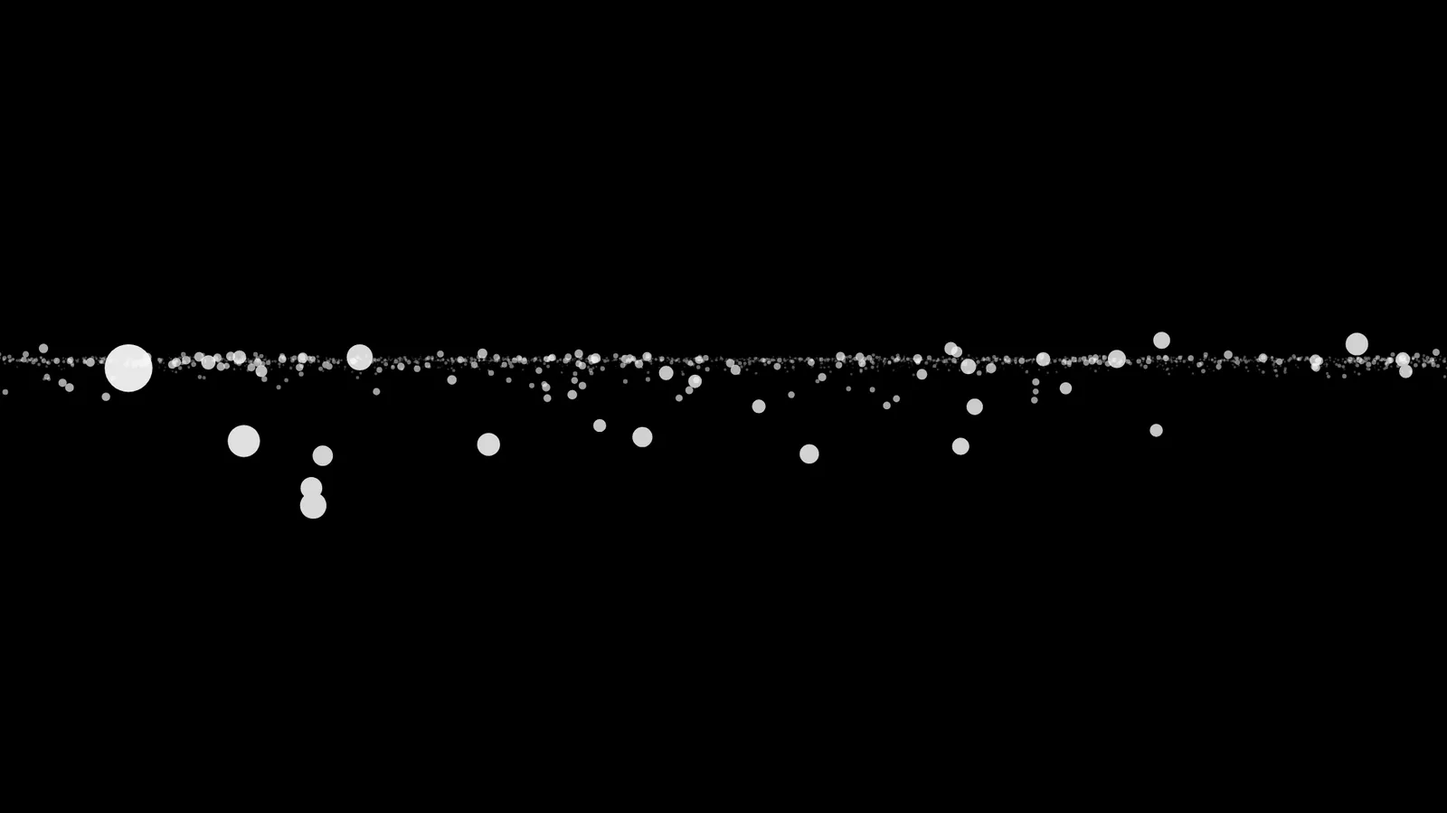
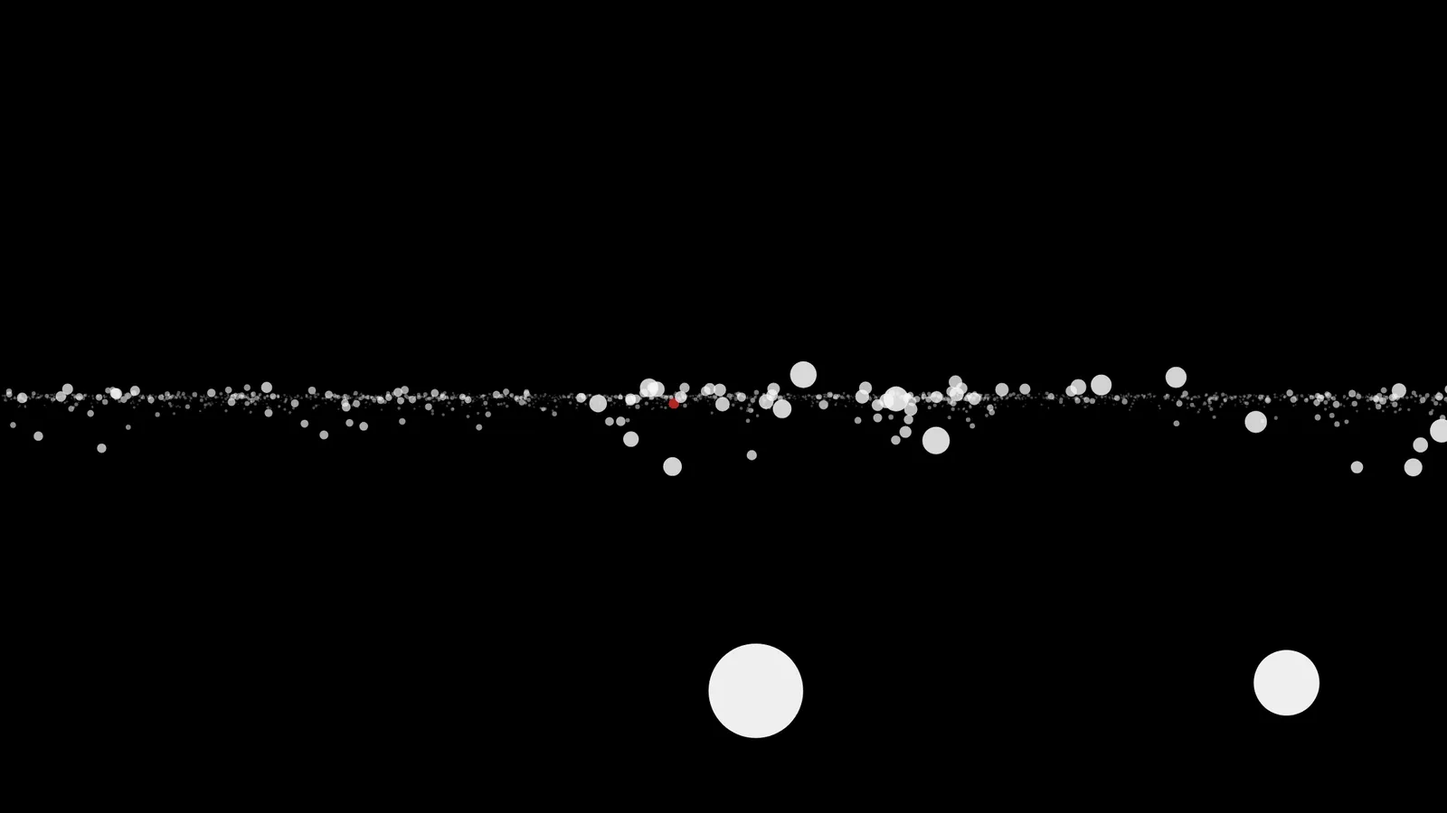
feat(crowd): catch me is the primary
Moved to first, which moves the landing scene, the poster, the note's
backdrop and the chrome's hue with it; the poster is recaptured. The crowd
unit tests that were written against the market now name it rather than
reading PRESETS[0].

diff --git a/public/showcase/runners/crowd.9810eb51f4a2.js b/public/showcase/runners/crowd.9810eb51f4a2.js
@@ -1,0 +1,1 @@
+var mn="ABCDEFGHIJKLMNOPQRSTUVWXYZabcdefghijklmnopqrstuvwxyz0123456789-_";function dn(n){switch(n.kind){case"num":return n.bits;case"bool":return 1;case"enum":return Math.max(1,Math.ceil(Math.log2(Math.max(2,n.options.length))));case"set":return n.options.length}}function gn(n,e){switch(n.kind){case"bool":return e===1;case"enum":return n.options[Math.min(e,n.options.length-1)];case"set":return n.options.filter((t,i)=>e&1<<i);case"num":return Number((n.origin+e*n.grid).toPrecision(12))}}function it(n,e){if(e==="")return null;let t=[];for(let d of e){let p=mn.indexOf(d);if(p<0)return null;for(let r=5;r>=0;r--)t.push(p>>r&1)}let i=0,o=[];for(;;){if(i+7>=t.length+1&&o.length===0)return null;let d=t[i];if(d===void 0)return null;i+=1;for(let p=0;p<7;p++)o.push(t[i+p]===1);if(i+=7,d===0)break;if(i>=t.length)return null}let c={};for(let[d,p]of n.entries()){if(!o[d])continue;let r=dn(p);if(i+r>t.length)return null;let f=0;for(let x=0;x<r;x++)f=f<<1|t[i+x];i+=r,c[p.key]=gn(p,f)}return c}function vt(n,e,t){let i=t!==void 0?Math.min(t,n.step):n.step;if(n.scale!=="log")return i;let o=Math.max(Math.abs(e),Number.MIN_VALUE);return Math.max(i,10**(Math.floor(Math.log10(o))-2))}function Pt(n,e,t){if(!Number.isFinite(e))return e;let i=vt(n,e,t);return i>0?Number((Math.round(e/i)*i).toPrecision(10)):e}var pn={min:0,max:99999},fn={density:40,stream:.45,against:.5,grouping:.6,children:.18,standing:.12,paceLow:.9,paceHigh:1.8,spacing:1,walk:1.3,pausing:.15,height:1.78,pitch:-4,companions:1,looking:.8,bob:1,fov:62,fade:40,reach:65,width:250,lining:0,watchers:0,bend:0,meander:300,team:0,climb:0,hills:400,effort:0,keep:0,line:0,hold:0,chase:0,flee:1,loop:0,corners:0,stalls:0,aisle:3,hue:210,tint:0,playback:1,seed:7351};var At={density:{min:.5,max:100,step:.5,scale:"log"},stream:{min:0,max:1,step:.01},against:{min:0,max:1,step:.01},grouping:{min:0,max:1,step:.05},children:{min:0,max:.5,step:.02},standing:{min:0,max:.6,step:.02},paceLow:{min:.4,max:3,step:.05},paceHigh:{min:.4,max:3,step:.05},spacing:{min:.3,max:2.5,step:.05},walk:{min:0,max:5,step:.05},pausing:{min:0,max:1,step:.05},height:{min:1,max:2.05,step:.01},pitch:{min:-25,max:15,step:.5},companions:{min:0,max:15,step:1},looking:{min:0,max:1.5,step:.05},bob:{min:0,max:3,step:.05},fov:{min:35,max:120,step:1},fade:{min:2,max:80,step:.1,scale:"log"},reach:{min:8,max:250,step:.5,scale:"log"},width:{min:3,max:250,step:.5,scale:"log"},lining:{min:0,max:12,step:.5},watchers:{min:0,max:300,step:5},bend:{min:0,max:60,step:.5},meander:{min:40,max:600,step:5},team:{min:0,max:16,step:1},climb:{min:0,max:40,step:.5},hills:{min:40,max:800,step:5},effort:{min:0,max:1,step:.05},keep:{min:-1,max:1,step:.05},line:{min:-1,max:1,step:.05},hold:{min:0,max:1,step:.05},chase:{min:0,max:1,step:.05},flee:{min:.5,max:1.6,step:.05},loop:{min:0,max:3e3,step:10},corners:{min:0,max:1,step:.05},stalls:{min:0,max:.8,step:.05},aisle:{min:1.6,max:8,step:.1},hue:{min:0,max:359,step:1},tint:{min:0,max:1,step:.02},playback:{min:0,max:2,step:.05},seed:{min:0,max:99999,step:1}},rt={...Object.fromEntries(Object.entries(At).map(([n,e])=>[n,{min:e.min,max:e.max}])),seed:pn};function bn(n,e){let t=At[n];return t?Pt(t,e):e}var yn=(n,e,t)=>Math.min(t,Math.max(e,n));function Et(n,e=fn){let t={...e,...n};for(let[i,o]of Object.entries(rt)){let c=Number(t[i]);t[i]=Number.isFinite(c)?yn(c,o.min,o.max):e[i],t[i]=bn(i,t[i])}return t.seed=Math.round(t.seed),t.paceLow>t.paceHigh&&(t.paceHigh=t.paceLow),t}var It=[{key:"density",kind:"num",grid:.5,origin:.5,bits:8},{key:"stream",kind:"num",grid:.01,origin:0,bits:7},{key:"against",kind:"num",grid:.01,origin:0,bits:7},{key:"grouping",kind:"num",grid:.05,origin:0,bits:5},{key:"children",kind:"num",grid:.02,origin:0,bits:5},{key:"standing",kind:"num",grid:.02,origin:0,bits:5},{key:"paceLow",kind:"num",grid:.05,origin:.4,bits:6},{key:"paceHigh",kind:"num",grid:.05,origin:.4,bits:6},{key:"spacing",kind:"num",grid:.05,origin:.3,bits:6},{key:"walk",kind:"num",grid:.05,origin:0,bits:6,retired:!0},{key:"pausing",kind:"num",grid:.05,origin:0,bits:5},{key:"height",kind:"num",grid:.01,origin:1,bits:7},{key:"pitch",kind:"num",grid:.5,origin:-25,bits:7},{key:"looking",kind:"num",grid:.05,origin:0,bits:5},{key:"bob",kind:"num",grid:.05,origin:0,bits:6},{key:"fov",kind:"num",grid:1,origin:35,bits:7},{key:"fade",kind:"num",grid:.1,origin:2,bits:10},{key:"hue",kind:"num",grid:1,origin:0,bits:9},{key:"tint",kind:"num",grid:.02,origin:0,bits:6},{key:"playback",kind:"num",grid:.05,origin:0,bits:6},{key:"seed",kind:"num",grid:1,origin:0,bits:17},{key:"reach",kind:"num",grid:.5,origin:8,bits:9},{key:"width",kind:"num",grid:.5,origin:3,bits:9},{key:"companions",kind:"num",grid:1,origin:0,bits:2,retired:!0},{key:"lining",kind:"num",grid:.5,origin:0,bits:5},{key:"watchers",kind:"num",grid:5,origin:0,bits:6},{key:"bend",kind:"num",grid:.5,origin:0,bits:7},{key:"meander",kind:"num",grid:5,origin:40,bits:7},{key:"team",kind:"num",grid:1,origin:0,bits:5},{key:"climb",kind:"num",grid:.5,origin:0,bits:7},{key:"hills",kind:"num",grid:5,origin:40,bits:8},{key:"effort",kind:"num",grid:.05,origin:0,bits:5},{key:"companions",kind:"num",grid:1,origin:0,bits:4},{key:"keep",kind:"num",grid:.05,origin:-1,bits:6},{key:"walk",kind:"num",grid:.05,origin:0,bits:7},{key:"line",kind:"num",grid:.05,origin:-1,bits:6},{key:"hold",kind:"num",grid:.05,origin:0,bits:5},{key:"chase",kind:"num",grid:.05,origin:0,bits:5},{key:"flee",kind:"num",grid:.05,origin:.5,bits:5},{key:"loop",kind:"num",grid:10,origin:0,bits:9},{key:"corners",kind:"num",grid:.05,origin:0,bits:5},{key:"stalls",kind:"num",grid:.05,origin:0,bits:5},{key:"aisle",kind:"num",grid:.1,origin:1.6,bits:7}];var wn=["seed","companions","chase"];function Rt(n,e){return wn.some(t=>n[t]!==e[t])}var xn=["density","reach","width","fov","lining","watchers","bend","meander","team","climb","hills","loop","corners","stalls","aisle"];function Lt(n,e){return xn.some(t=>n[t]!==e[t])}function Tt(n,e,t,i,o,c,d,p,r){let f=Math.max(1,Math.min(p,r)),x=Math.max(20,Math.min(140,c))*Math.PI/180;return{x:n,y:e,z:t,yaw:i,pitch:o,focal:f/2/Math.tan(x/2),width:p,height:r,fade:d}}function Nt(n,e,t,i){let o=e-n.x,c=t-n.y,d=Math.cos(n.yaw),p=Math.sin(n.yaw),r=o*d+c*p,f=o*p-c*d,x=i-n.z,S=Math.cos(n.pitch),I=Math.sin(n.pitch),_=r*S+x*I;if(_<=.32)return null;let v=x*S-r*I,E=n.focal/_;return{depth:_,sx:n.width/2+f*E,sy:n.height/2-v*E,scale:E,alpha:Math.exp(-_/Math.max(.5,n.fade))}}function st(n){let e=n|0;return e=Math.imul(e^e>>>16,73244475),e=Math.imul(e^e>>>16,73244475),(e^e>>>16)>>>0}function Re(n,...e){let t=st(n);for(let i of e)t=st(t^st(i));return t>>>0}function Le(n){let e=n|0;return()=>{e=e+1831565813|0;let t=Math.imul(e^e>>>15,1|e);return t=t+Math.imul(t^t>>>7,61|t)^t,((t^t>>>14)>>>0)/4294967296}}function Ct(n){let e=Math.max(n(),Number.EPSILON),t=n(),i=Math.sqrt(-2*Math.log(e))*Math.cos(2*Math.PI*t);return Math.max(-2.5,Math.min(2.5,i))}var kn={mean:1.75,sd:.07},Mn={mean:1.62,sd:.065};function Ot(n){let e=n()<.5?kn:Mn;return e.mean+Ct(n)*e.sd}var Be={min:2,max:12},Ft=n=>.75+.062*n,_t=n=>.152*(.8+.2*(n/1.75)),Sn=n=>.225*(.78+.22*(n/1.75)),qt=n=>n-Sn(n)/2,vn=.935,ht=n=>vn*n,Oe=n=>.23*(.6+.4*(n/1.75)),Pn=n=>.53*n,Gt=(n,e)=>1.34*Math.sqrt(n/1.75)*e;function An(n,e,t){let i=Math.max(.15,e/Math.max(.05,t));return .83*n*Math.pow(i,.6)}function De(n,e,t){return e<=.02?0:2*e/An(n,e,t)}var We=.023,_e=.02,ze=n=>Math.sqrt(.5*9.81*Pn(n)),je=(n,e)=>2.8*Math.sqrt(1.75/n)*(1+.05*(e-3)),Ye=.04,Ve=.008,Ht=.38;function Xe(n){let e=n-Math.floor(n),t=1-Ht;if(e<t){let i=(e-t/2)/(t/2);return 1-1.6*i*i}return-.6-.4*Math.sin(Math.PI*(e-t)/Ht)}var En=.45,ut=160,lt=Math.PI*2,$t=Math.log(1/.005),In=n=>Math.max(0,Math.min(ut-1,Math.round(Math.log(n/.005)/$t*(ut-1)))),ct=n=>.005*Math.exp(n/(ut-1)*$t),Rn="hsl(2, 88%, 56%)",Kt=()=>({pool:[],order:[]});function Ut(n){let e=Math.round(n.tint*72),t=Math.round(97-n.tint*12);return`hsl(${Math.round(n.hue)} ${e}% ${t}%)`}function Bt(n,e){let{people:t,camera:i,settings:o,width:c,height:d}=e,{pool:p,order:r}=e.scratch;n.globalAlpha=1,n.fillStyle="#000",n.fillRect(0,0,c,d);let f=o.bob,x=0;for(let v=0;v<t.length;v++){let E=t[v],P=Math.hypot(E.vx,E.vy),Q=Math.min(1,P/.35),W=E.running?Xe(E.phase/lt)*Ye:Math.sin(E.phase)*We,ee=e.ground(E.x)+E.head+W*f*Q,T=Math.sin(E.phase/2)*(E.running?Ve:_e)*f*Q,z=P>1e-4?-E.vy/P:0,N=P>1e-4?E.vx/P:0,$=Nt(i,E.x+z*T,E.y+N*T,ee);if(!$||$.alpha<.005)continue;let X=Math.max(En,$.scale*E.headR);if($.sx<-X-2||$.sx>c+X+2||$.sy<-X-2||$.sy>d+X+2)continue;let K=p[x];K||(K={sx:0,sy:0,r:0,depth:0,alpha:0,red:!1},p[x]=K),K.red=E.quarry,K.sx=$.sx,K.sy=$.sy,K.r=X,K.depth=$.depth,K.alpha=$.alpha,r[x]=K,x++}r.length=x,r.sort((v,E)=>E.depth-v.depth),n.fillStyle=Ut(o);let S=-1,I=0,_=0;n.beginPath();for(let v of r){let E=In(v.alpha);if(E!==S&&(S>=0&&(n.globalAlpha=ct(S),n.fill(),I++,n.beginPath()),S=E),v.red){S>=0&&(n.globalAlpha=ct(S),n.fill(),I++),n.beginPath(),n.fillStyle=Rn,n.globalAlpha=v.alpha,n.moveTo(v.sx+v.r,v.sy),n.arc(v.sx,v.sy,v.r,0,lt),n.fill(),I++,n.fillStyle=Ut(o),n.beginPath(),S=-1,v.r>_&&(_=v.r);continue}n.moveTo(v.sx+v.r,v.sy),n.arc(v.sx,v.sy,v.r,0,lt),v.r>_&&(_=v.r)}return S>=0&&(n.globalAlpha=ct(S),n.fill(),I++),n.globalAlpha=1,{drawn:x,fills:I,largest:_}}function Ln(n,e){let t=e.x-n.x,i=e.y-n.y,o=n.radius+e.radius,c=t*t+i*i-o*o;if(c<=0)return 0;let d=n.vx-e.vx,p=n.vy-e.vy,r=t*d+i*p;if(r<=0)return 1/0;let f=d*d+p*p;if(f<=1e-9)return 1/0;let x=r*r-f*c;return x<=0?1/0:(r-Math.sqrt(x))/f}function qe(n,e,t,i){let o=Ln(n,e);if(o===1/0||o>4)return;let c=n.vx-e.vx,d=n.vy-e.vy,p=e.x-n.x-c*o,r=e.y-n.y-d*o,f=Math.sqrt(p*p+r*r);if(f<1e-6&&(p=e.x-n.x,r=e.y-n.y,f=Math.sqrt(p*p+r*r),f<1e-6))return;let x=Math.max(.12,o),S=t*Math.exp(-x/3)/(x*x);i.x-=p/f*S,i.y-=r/f*S}function Dt(n,e){let t=e*Math.sqrt(n()),i=n()*Math.PI*2;return{x:t*Math.cos(i),y:t*Math.sin(i)}}function Wt(n,e,t,i){if(!Number.isFinite(i))return Dt(n,e);let o=Math.max(-e,-i-t),c=Math.min(e,i-t);if(c<=o)return{x:0,y:(o+c)/2};if(o<=-e&&c>=e)return Dt(n,e);for(let d=0;d<24;d++){let p=o+n()*(c-o),r=Math.sqrt(Math.max(0,e*e-p*p));if(!(n()*e>r))return{x:(n()*2-1)*r,y:p}}return{x:0,y:o+n()*(c-o)}}function mt(n,e,t){return Math.hypot(e,t)<1e-4?n()*Math.PI*2:Math.atan2(-t,-e)+Math.asin(2*n()-1)}function Ze(n,e,t,i){if(n()>=t)return n()*Math.PI*2;let o=(n()-.5)*.35;return(n()<i?e+Math.PI:e)+o}function zt(n,e,t,i,o,c,d){let p=Math.sqrt(1+o.steepest*o.steepest),r=()=>{let x=c>0&&n()<.5?-1:1;return c>0?x*(c+n()*(d-c)):(n()*2-1)*d};for(let x=0;x<40;x++){let S=t+(n()*2-1)*e,I=o.slope(S),_=Math.sqrt(1+I*I);if(!o.straight&&n()*p>_)continue;let v=o.centre(S)+r()*_,E=v-i;if((S-t)*(S-t)+E*E<=e*e)return{x:S,y:v}}let f=o.slope(t);return{x:t,y:o.centre(t)+r()*Math.sqrt(1+f*f)}}function jt(n,e,t,i,o,c,d,p){let r=Math.atan(c.slope(i)),f=Math.cos(e-r)>=0?1:-1,x=d>0?(n()<.5?-1:1)*(d+n()*(p-d)):(n()*2-1)*p,S=v=>{let E=i+f*v,P=c.slope(E);return{x:E,y:c.centre(E)+x*Math.sqrt(1+P*P)}},I=0,_=t*2;for(let v=0;v<24;v++){let E=(I+_)/2,P=S(E);(P.x-i)*(P.x-i)+(P.y-o)*(P.y-o)>t*t?_=E:I=E}return S(I)}var Xt=.4142,Je=.3;function dt(n,e,t,i,o=0,c=300,d=0,p=0){let r=Zt(o,c,d,p);if(n<=0)return Yt({...r,straight:!0,centre:()=>0,slope:()=>0,lateral:(P,Q)=>Q,steepest:0,minRadius:1/0});let f=Math.PI*2/e,x=f/Xt,S=n*(1-Je),I=n*Je,_=S*Math.sin(t)+I*Math.sin(i),v=P=>S*Math.sin(f*P+t)+I*Math.sin(x*P+i)-_,E=P=>S*f*Math.cos(f*P+t)+I*x*Math.cos(x*P+i);return Yt({...r,straight:!1,centre:v,slope:E,lateral:(P,Q)=>{let W=E(P);return(Q-v(P))/Math.sqrt(1+W*W)},steepest:S*f+I*x,minRadius:1/(S*f*f+I*x*x)})}function Yt(n){let e={...n,closed:!1,frame:(t,i,o)=>{if(n.straight)return o.lateral=i,o.cos=1,o.sin=0,o;let c=n.slope(t),d=1/Math.sqrt(1+c*c);return o.lateral=(i-n.centre(t))*d,o.cos=d,o.sin=c*d,o},along:t=>Math.atan(n.slope(t)),sample:(t,i,o,c,d,p)=>zt(t,i,o,c,e,d,p),entry:(t,i,o,c,d,p,r)=>jt(t,i,o,c,d,e,p,r),lengthWithin:()=>null};return e}var Tn=.5,Vt={min:256,max:4096};function Qt(n,e,t,i,o,c,d,p=0,r=300,f=0,x=0){let S=Zt(p,r,f,x),I=.34*e,_=.2*e,v=8192,E=[],P=[];for(let y=0;y<=v;y++){let R=y/v*Math.PI*2,H=1+I*Math.cos(2*R+t)+_*Math.cos(3*R+i);E.push(H*Math.cos(R)),P.push(H*Math.sin(R))}let Q=[0];for(let y=1;y<=v;y++)Q.push(Q[y-1]+Math.hypot(E[y]-E[y-1],P[y]-P[y-1]));let W=Q[v],ee=n/W,T=Math.max(Vt.min,Math.min(Vt.max,Math.round(n/Tn))),z=new Float64Array(T),N=new Float64Array(T),$=0;for(let y=0;y<T;y++){let R=y/T*W;for(;$<v-1&&Q[$+1]<R;)$++;let H=Q[$+1]-Q[$],l=H>0?(R-Q[$])/H:0;z[y]=(E[$]+(E[$+1]-E[$])*l)*ee,N[y]=(P[$]+(P[$+1]-P[$])*l)*ee}let X=new Float64Array(T),K=new Float64Array(T);for(let y=0;y<T;y++){let R=(y+1)%T,H=(y-1+T)%T,l=z[R]-z[H],g=N[R]-N[H],G=Math.hypot(l,g)||1;X[y]=l/G,K[y]=g/G}let F=d-Math.atan2(K[0],X[0]),ie=Math.cos(F),te=Math.sin(F),me=z[0],fe=N[0];for(let y=0;y<T;y++){let R=z[y]-me,H=N[y]-fe;z[y]=o+R*ie-H*te,N[y]=c+R*te+H*ie;let l=X[y],g=K[y];X[y]=l*ie-g*te,K[y]=l*te+g*ie}let V=n/T,B=1/0;for(let y=0;y<T;y++){let R=(y+1)%T,H=Math.abs(Math.atan2(X[y]*K[R]-K[y]*X[R],X[y]*X[R]+K[y]*K[R]));H>1e-9&&(B=Math.min(B,V/H))}let q=(y,R,H)=>{let l=z[y]-R,g=N[y]-H;return l*l+g*g};function se(y,R,H){let l=H&&H.pathAt>=0&&H.pathAt<T?H.pathAt:-1;if(l<0){let g=1/0;for(let G=0;G<T;G++){let Z=q(G,y,R);Z<g&&(g=Z,l=G)}}else{let g=q(l,y,R);for(let G=0;G<T;G++){let Z=(l+1)%T,D=(l-1+T)%T,O=q(Z,y,R),J=q(D,y,R);if(O<g&&O<=J)l=Z,g=O;else if(J<g)l=D,g=J;else break}}return H&&(H.pathAt=l),l}function Me(y,R,H,l){let g=se(y,R,l),Z=X[g]*(y-z[g])+K[g]*(R-N[g])>=0?(g+1)%T:(g-1+T)%T,D=z[Z]-z[g],O=N[Z]-N[g],J=D*D+O*O||1,re=Math.max(0,Math.min(1,((y-z[g])*D+(R-N[g])*O)/J)),ne=z[g]+D*re,ye=N[g]+O*re,we=X[g]+(X[Z]-X[g])*re,oe=K[g]+(K[Z]-K[g])*re,ae=Math.hypot(we,oe)||1;return we/=ae,oe/=ae,H.lateral=we*(R-ye)-oe*(y-ne),H.cos=we,H.sin=oe,H}let Ee={lateral:0,cos:1,sin:0},Ne=(y,R,H)=>R>0?(y()<.5?-1:1)*(R+y()*(H-R)):(y()*2-1)*H,Ae=(y,R)=>({x:z[y]-K[y]*R,y:N[y]+X[y]*R}),he="",Se=[];function ve(y,R,H){let l=`${y.toFixed(2)},${R.toFixed(2)},${H.toFixed(2)}`;if(l===he)return Se;he=l,Se=[];for(let g=0;g<T;g++)q(g,y,R)<=H*H&&Se.push(g);return Se}return{...S,straight:!1,closed:!0,minRadius:B,frame:Me,lateral:(y,R)=>Me(y,R,Ee).lateral,along:(y,R)=>(Me(y,R,Ee),Math.atan2(Ee.sin,Ee.cos)),sample(y,R,H,l,g,G){let Z=ve(H,l,R);for(let D=0;D<40&&Z.length>0;D++){let O=Ae(Z[Math.floor(y()*Z.length)],Ne(y,g,G));if((O.x-H)*(O.x-H)+(O.y-l)*(O.y-l)<=R*R)return O}return Ae(se(H,l),Ne(y,g,G))},entry(y,R,H,l,g,G,Z){let D=Math.max(1,H-Z),O=D*D,J=-1,re=1/0;for(let ne=0;ne<T;ne++){let ye=(ne+1)%T,we=q(ne,l,g)-O,oe=q(ye,l,g)-O;if(we>0==oe>0)continue;let ae=Math.atan2(N[ne]-g,z[ne]-l)-R;ae=Math.abs(Math.atan2(Math.sin(ae),Math.cos(ae))),ae<re&&(re=ae,J=ne)}return J<0?this.sample(y,H,l,g,G,Z):Ae(J,Ne(y,G,Z))},lengthWithin:(y,R,H)=>ve(y,R,H).length*V}}function Zt(n,e,t,i){if(n<=0)return{flat:!0,ground:()=>0,groundSlope:()=>0,steepestClimb:0};let o=Math.PI*2/e,c=o/Xt,d=n*(1-Je),p=n*Je,r=d*Math.sin(t)+p*Math.sin(i);return{flat:!1,ground:f=>d*Math.sin(o*f+t)+p*Math.sin(c*f+i)-r,groundSlope:f=>d*o*Math.cos(o*f+t)+p*c*Math.cos(c*f+i),steepestClimb:d*o+p*c}}var gt=1.4;function et(n,e,t,i){return i===0||!Number.isFinite(e)?0:(Math.sign(i)*t*e*.5-n)*gt*Math.abs(i)}function tt(n,e){if(e<=0)return 1;let t=Math.exp(-3.5*Math.abs(n+.05))/Math.exp(-3.5*.05);return 1+e*(t-1)}var nt=3.5,Nn=8,Te=1.15,Cn=.3,Hn=1,On=[.15,.5],pt=[.5,1.8],Fn=[.85,3.1],_n=[.5,2.2],qn=[.9,2.2],Gn=[.35,1.6],Un=.5,$n=.09,Kn=.3,Bn=1.1,Dn=.38,Wn=2,zn=4.5,jn=2.6,Jt=.61,en=.58,tn=.55,Yn=[3.2,8],Vn=.65,Xn=[.7,1.6],Qn=[.6,1.3],Zn=14,Jn=.5,eo=.5,to=1.8,no=240,oo=[18,45],ao=[1.5,3.4],io=[5,19],ro=[14,40],so=[1,4],ho=.9,nn=2.2,ft=7,lo=.09;function bt(n,e){let t=n,i=Le(Re(e,77)),o=0,c=0,d=0,p=0,r=0,f=0,x=0,S=0,I=0,_=0,v={kind:"ahead"},E=0,P=0,Q=0,W=0,ee=0,T=0,z=!0,N=0,$=!0;function X(l){if(N-=l,N<=0){z=!z,$=i()<t.chase;let g=1-.45*fe;N=he(z?Xn:Qn,i())*g,$||(N=.8+i()*1.2)}return $}let K=0,F=!0,ie=0,te=0,me=!1,fe=0,V=0,B=t.height,q={x:0,y:0},se=[],Me=0,Ee={lateral:0,cos:1,sin:0},Ne={pathAt:-1};function Ae(l){let g=t.pausing;if(g<=0)return l?1/0:0;if(g>=1)return l?0:1/0;let G=9*(l?1-g:g);return Math.max(.4,-Math.log(Math.max(1e-6,i()))*G)}let he=([l,g],G)=>l+G*(g-l),Se=()=>t.pitch*Math.PI/180;function ve(l){if(l.kind==="ahead")return{yaw:0,up:0,worth:!0};let g=ht(B),G=l.kind==="person"?l.person.x:l.x,Z=l.kind==="person"?l.person.y:l.y,D=l.kind==="person"?l.person.head:l.z,O=G-o,J=Z-c,re=Math.sqrt(O*O+J*J),ne=Math.atan2(J,O)-f;for(;ne>Math.PI;)ne-=Math.PI*2;for(;ne<-Math.PI;)ne+=Math.PI*2;let ye=Math.atan2(D-g,Math.max(.4,re))-Se();return{yaw:Math.max(-l.wide,Math.min(l.wide,ne)),up:Math.max(-en,Math.min(tn,ye)),worth:Math.abs(ne)<=l.wide&&re>.35}}function y(l,g){l.kind==="spot"&&(l.x+=l.vx*g,l.y+=l.vy*g,l.z+=l.vz*g)}function R(l,g){if(g<=0)return{look:{kind:"ahead"},hold:0};let G=Math.cos(f),Z=Math.sin(f),D=i(),O=fe,J=1-.55*O,re=l.companions,ne=l.quarry;if(ne&&t.chase>0&&(l.caught||i()<.75*t.chase))return{look:{kind:"person",person:ne,wide:Te},hold:he(pt,i())*(1-.2*O)};let ye=re.length>0?Un:0;if(re.length>0&&D<ye)return{look:{kind:"person",person:re[Math.floor(i()*re.length)],wide:Te},hold:he(pt,i())*J};let we=$n*(1-.9*O);if(D<ye+we){let pe=he(ro,i()),a=f+(i()-.5)*1.4,h=i()*Math.PI*2,w=he(so,i());return{look:{kind:"spot",x:o+Math.cos(a)*pe,y:c+Math.sin(a)*pe,z:he(io,i()),vx:Math.cos(h)*w,vy:Math.sin(h)*w,vz:(i()-.55)*1.6,wide:Te},hold:he(ao,i())*J}}if(D<ye+we+Kn){let pe=he(Yn,i()),a=pe+(he(oo,i())-pe)*O,h=Math.min(Te,Math.max(Vn,g))*(1-.6*O),w=f+(i()-.5)*2*h;return{look:{kind:"spot",x:o+Math.cos(w)*a,y:c+Math.sin(w)*a,z:i()<.55*(1-O)?0:i()*1.3+O*.6,vx:0,vy:0,vz:0,wide:Te},hold:he(qn,i())*J}}let oe=null,ae=1/0,Pe=l.neighbours(o,c,14);for(let pe=0;pe<20&&Pe.length>0;pe++){let a=Pe[Math.floor(i()*Pe.length)];if(!a)continue;let h=a.x-o,w=a.y-c,u=Math.sqrt(h*h+w*w);if(u<.6+5*O||u>14)continue;let b=(h*G+w*Z)/u;if(b<-.2)continue;let A=u*(1.6-b);A<ae&&(ae=A,oe=a)}let Ce=he(F?On:pt,i())*J;return oe?{look:{kind:"person",person:oe,wide:g},hold:Ce}:{look:{kind:"ahead"},hold:Ce}}function H(l,g){V+=l,ie-=l,ie<=0&&(F=!F,ie=Ae(F),ie<=0&&(F=!F,ie=Ae(F))),r+=(i()-.5)*lo*Math.sqrt(l)*2;let G=g.path.frame(o,c,Ee,Ne),Z=Math.max(0,Math.min(1,1-g.halfWidth/25));if(Z>0){let k=r-(g.path.straight?0:Math.atan2(G.sin,G.cos));for(;k>Math.PI/2;)k-=Math.PI;for(;k<-Math.PI/2;)k+=Math.PI;r-=k*Z*1.4*l}let D=g.path.flat?0:g.path.groundSlope(o)*Math.cos(r),O=g.quarry;if(O&&t.chase>0){Me+=l,Me>=eo&&(Me=0,se.push(O.x,O.y),se.length>no*2&&se.splice(0,2));let k={x:Math.cos(r),y:Math.sin(r)};for(;se.length>=2;){let ge=se[0]-o,xe=se[1]-c,Y=Math.sqrt(ge*ge+xe*xe);if(Y<to||Y<6&&ge*k.x+xe*k.y<0)se.splice(0,2);else break}let C=se.length>=2?se[0]:O.x,j=se.length>=2?se[1]:O.y,U=Math.atan2(j-c,C-o)-r;for(;U>Math.PI;)U-=Math.PI*2;for(;U<-Math.PI;)U+=Math.PI*2;r+=U*t.chase*2.5*l}else if(se.length=0,g.stalls.active){let k=Math.PI/2,C=r-Math.round(r/k)*k;r-=C*1.4*l}let J=F&&!g.caught?t.walk*tt(D,t.effort):0,re=Math.cos(r)*J,ne=Math.sin(r)*J;q.x=(re-d)*nn,q.y=(ne-p)*nn;let ye={x:o,y:c,vx:d,vy:p,radius:Oe(B)},we=1.9*t.spacing*t.spacing;for(let k of g.neighbours(o,c,3.6))qe(ye,k,we,q);if(g.stalls.push(o,c,q),g.path.straight){let k=Math.abs(c)-g.halfWidth+.8;k>0&&(q.y-=Math.sign(c)*k*7)}else{let k=G.lateral,C=Math.abs(k)-g.halfWidth+.8;C>0&&(q.x+=G.sin*Math.sign(k)*C*7,q.y-=G.cos*Math.sign(k)*C*7)}if((t.keep!==0||t.hold>0)&&F&&Number.isFinite(g.halfWidth)){let k=G.lateral,C=t.hold>0?(t.line*g.halfWidth-k)*gt*t.hold:et(k,g.halfWidth,Math.cos(r-Math.atan2(G.sin,G.cos)),t.keep);q.x+=-G.sin*C,q.y+=G.cos*C}let oe=Math.sqrt(q.x*q.x+q.y*q.y);oe>ft&&(q.x=q.x/oe*ft,q.y=q.y/oe*ft),d+=q.x*l,p+=q.y*l;let ae=Math.sqrt(d*d+p*p),Pe=J>0?J*1.35:t.walk/ho*l*2;ae>Pe&&ae>1e-6&&(d=d/ae*Pe,p=p/ae*Pe),o+=d*l,c+=p*l;let Ce=ze(B);!me&&ae>Ce*1.04?me=!0:me&&ae<Ce*.9&&(me=!1),fe+=((me?1:0)-fe)*Math.min(1,l*3);let pe=me?je(B,ae):De(B,ae,Math.max(.4,t.walk));te+=pe*l*Math.PI*2;let a=ae<.25,h=(a?Hn:Cn)*Math.min(1.3,Math.max(0,t.looking));if(O&&t.chase>0&&(g.caught||X(l))){let k=g.caught||z?{kind:"person",person:O,wide:Te}:{kind:"ahead"},C=k.kind==="ahead"?{yaw:0,up:0,worth:!0}:ve(k);v=k,E=C.worth?C.yaw:0,P=C.worth?C.up:0,T=0}else if(T>0){T-=l,y(v,l);let k=ve(v);E=k.yaw,P=k.up,k.worth||(T=0),T<=0&&(a&&i()<Dn&&(K=f+I),v={kind:"ahead"},E=0,P=0)}else if(ee-=l,ee<=0){let k=R(g,Math.min(h,Te));v=k.look;let C=ve(v);E=C.yaw,P=C.up,T=k.hold;let j=g.companions.length>0?Gn:a?_n:Fn;ee=T+he(j,i())*(1+.8*fe);let U=g.quarry;if(U&&t.chase>0&&v.kind!=="person"){let ge=Math.atan2(U.y-c,U.x-o)-S;Math.abs(Math.atan2(Math.sin(ge),Math.cos(ge)))>Jn&&(ee=T+he(j,i())*.3)}}let w=O&&t.chase>0?Zn:Nn,u=-2*w*_-w*w*(I-E);_=Math.max(-nt,Math.min(nt,_+u*l)),I+=_*l;let b=-2*w*W-w*w*(Q-P);W=Math.max(-nt,Math.min(nt,W+b*l)),Q=Math.max(-en,Math.min(tn,Q+W*l)),Math.abs(I)>Te&&(I=Math.sign(I)*Te);let A=ae>.12;if(A){let k=Math.atan2(p,d),C=k-r;for(;C>Math.PI;)C-=Math.PI*2;for(;C<-Math.PI;)C+=Math.PI*2;K=Math.abs(C)<=Jt?r:k-Math.sign(C)*Jt}let m=K-f;for(;m>Math.PI;)m-=Math.PI*2;for(;m<-Math.PI;)m+=Math.PI*2;let M=A?zn:jn;x+=(M*M*m-2*M*x)*l;let L=A?Wn:Bn;x=Math.max(-L,Math.min(L,x));let s=x*l;f+=s,A||(r+=s),S=f+I}return{get x(){return o},get y(){return c},get vx(){return d},get vy(){return p},get yaw(){return S},get pitch(){return Se()+Q},get course(){return f},get axis(){return 0},get speed(){return Math.hypot(d,p)},get walking(){return F},get clock(){return V},get radius(){return Oe(B)},eye(){let l=t.bob,g=Math.min(1,Math.hypot(d,p)/.35),G=Math.sin(te)*We,Z=Xe(te/(Math.PI*2))*Ye,D=G+(Z-G)*fe,O=_e+(Ve-_e)*fe;return{z:ht(B)+D*l*g,sway:Math.sin(te/2)*O*l*g}},step:H,resettle(l){t=l,B=t.height},stats(){return{x:o,y:c,yaw:S,course:f,speed:Math.hypot(d,p),walking:F,running:me,stature:B,clock:V}}}}var co={active:!1,period:0,aisle:0,push:()=>{},blocked:()=>!1,junction:()=>-1,runs:()=>3};function Ge(n,e,t,i){let o=n*374761393+e*668265263+t*2147483647+i*144269504|0;return o=Math.imul(o^o>>>13,1274126177),o=o^o>>>16,(o>>>0)/4294967296}function yt(n,e,t){if(n<=0)return co;let i=Math.sqrt(Math.min(.9,n)),o=e*i/(1-i),c=e+o;function d(f,x){if(Ge(f,x,0,t)<.08)return null;let S=e/2+Ge(f,x,1,t)*.22*o,I=e/2+o-Ge(f,x,2,t)*.22*o,_=e/2+Ge(f,x,3,t)*.22*o,v=e/2+o-Ge(f,x,4,t)*.22*o;return[S,I,_,v]}let p={d:1/0,nx:0,ny:0};function r(f,x){let S=Math.floor(f/c),I=Math.floor(x/c),_=f-S*c,v=x-I*c,E=d(S,I);if(!E)return p.d=1/0,p;let[P,Q,W,ee]=E,T=Math.max(P-_,0,_-Q),z=Math.max(W-v,0,v-ee);if(T>0||z>0){let ie=Math.sqrt(T*T+z*z);return p.d=ie,p.nx=(_<P?-T:T)/ie,p.ny=(v<W?-z:z)/ie,p}let N=_-P,$=Q-_,X=v-W,K=ee-v,F=Math.min(N,$,X,K);return p.d=-F,p.nx=F===N?-1:F===$?1:0,p.ny=F===X?-1:F===K?1:0,p}return{active:!0,period:c,aisle:e,push(f,x,S){let I=r(f,x);if(I.d>=.8)return;let _=(.8-I.d)*7;S.x+=I.nx*_,S.y+=I.ny*_},blocked(f,x,S){return r(f,x).d<S},runs(f,x){let S=Math.abs(x-Math.round(x/c)*c)<=e/2,I=Math.abs(f-Math.round(f/c)*c)<=e/2;return(S?1:0)+(I?2:0)},junction(f,x){let S=Math.round(f/c),I=Math.round(x/c);return Math.abs(f-S*c)>e/2||Math.abs(x-I*c)>e/2?-1:(S+4096)*16384+(I+4096)}}}var Fe=9e3,mo=24;function wt(n){return Math.max(mo,4*(n.paceHigh+Math.max(n.walk,n.paceHigh))+2)}var on=[[.62,.7],[-.62,.7],[.45,1.95]];function go(n){let e=n+1,t=Math.min(4,Math.ceil(Math.sqrt(e))),i=Math.ceil(e/t),o={row:i-1,col:Math.floor((e-(i-1)*t-1)/2)},c=[];for(let d=0;d<e;d++){let p=Math.floor(d/t),r=d%t;if(p===o.row&&r===o.col)continue;let f=p===i-1?e-(i-1)*t:t,x=(r-(f-1)/2)*.8-(o.col-(e-(i-1)*t-1)/2)*.8;c.push([x,(o.row-p)*1.05])}return c}var po=1.1,fo=.6,bo=5,xt=[2.5,5],an=3.4,ke=4,ot=.8,rn=3.6,sn=8,hn=2.2,kt=7;function Mt(n,e){let t=[],i=[],o=n,c=wt(n),d=1,p=!1,r=1e6,f=0,x=0,S=1/0,I=0,_=0,v=0,E=1/0,P=dt(0,1,0,0),Q="",W=yt(0,1,0),ee=0,T=!1,z=0,N=Le(Re(o.seed,2)),$=Le(Re(o.seed,3)),X=a=>Le(Re(o.seed,a,11)),K=0,F={x:0,y:0},ie=new Map,te=(a,h)=>(a+4096)*16384+(h+4096);function me(a,h=r){return h>=a?Math.PI*a*a:2*(a*a*Math.asin(h/a)+h*Math.sqrt(a*a-h*h))}let fe=a=>ee>0?me(a,r+ee)-me(a):0,V=a=>o.density/100*B(a)+o.watchers/100*q(a);function B(a){let h=Number.isFinite(r)?P.lengthWithin(e.x,e.y,a):null;return h===null?me(a):h*2*r}function q(a){let h=ee>0?P.lengthWithin(e.x,e.y,a):null;return h===null?fe(a):h*2*ee}function se(){let a=1,h=4e3;if(V(h)<=Fe)return h;for(let w=0;w<30;w++){let u=(a+h)/2;V(u)>Fe?h=u:a=u}return a}function Me(){for(let u of t)u.companion=!1,u.besideRight=0,u.besideAhead=0;for(let u of t)u.quarry=!1;let a=t.filter(u=>!u.watcher).length,h=Math.min(Math.round(o.companions),a),w=h<=on.length?on:go(h);for(let u=0;u<h;u++){let b=t[u];b.companion=!0,b.besideRight=w[u][0],b.besideAhead=w[u][1],b.standing=!1,b.group=-1;let A=Math.cos(e.axis),m=Math.sin(e.axis);b.x=e.x+A*b.besideAhead-m*b.besideRight,b.y=e.y+m*b.besideAhead+A*b.besideRight,b.vx=e.vx,b.vy=e.vy}if(o.chase>0&&a>h){D=!0,O=0,J=!0,re=9+N()*12;let u=t[h];u.quarry=!0,u.standing=!1,u.group=-1;let b=Math.cos(e.axis),A=Math.sin(e.axis);u.x=e.x+b*7,u.y=e.y+A*7,u.gx=b,u.gy=A,u.vx=b*u.preferred,u.vy=A*u.preferred}}function Ee(){r=o.width>=rt.width.max?1/0:o.width/2,ee=Number.isFinite(r)?o.lining:0;let a=[o.bend,o.meander,o.climb,o.hills,o.loop,o.corners,o.seed].join();if(a!==Q){Q=a;let m=Le(Re(o.seed,5)),M=[m(),m(),m(),m()].map(L=>L*Math.PI*2);P=o.loop>0?Qt(o.loop,o.corners,M[0],M[1],e.x,e.y,e.course,o.climb,o.hills,M[2],M[3]):dt(o.bend,o.meander,M[0],M[1],o.climb,o.hills,M[2],M[3]);for(let L of t)L.pathAt=-1}T=Number.isFinite(r)&&(ee>0||!P.straight),W=yt(o.stalls,o.aisle,o.seed);let h=Math.max(6,o.reach),w=se();if(p=w<h,d=Math.min(h,w),T){Ne(),ve();return}if(t.some(m=>m.watcher)){let m=t.filter(M=>!M.watcher);t.length=0,t.push(...m)}let u=Math.min(Fe,Math.round(o.density/100*me(d)));for(;t.length>u;)t.pop();let b=new Map;for(let m of t){let M=te(Math.floor(m.x/ke),Math.floor(m.y/ke)),L=b.get(M);L?L.push(m):b.set(M,[m])}let A=(m,M,L)=>{let s=Math.floor(m/ke),k=Math.floor(M/ke);for(let C=-1;C<=1;C++)for(let j=-1;j<=1;j++){let U=b.get(te(s+C,k+j));if(U)for(let ge of U){let xe=ge.x-m,Y=ge.y-M,le=L+ge.radius;if(xe*xe+Y*Y<le*le)return!1}}return!0};for(;t.length<u;){let m=0,M=0,L=!1;for(let j=0;j<10&&!L;j++){let U=Wt(N,d,e.y,r);m=e.x+U.x,M=e.y+U.y,L=A(m,M,.3*o.spacing)&&!W.blocked(m,M,.4)}let s=Ae(t.length,m,M),k=te(Math.floor(m/ke),Math.floor(M/ke)),C=b.get(k);C?C.push(s):b.set(k,[s])}ve()}function Ne(){let a=Math.min(1,Fe/Math.max(1,V(d))),h=Math.round(o.density/100*B(d)*a),w=Math.round(o.watchers/100*q(d)*a),u=0,b=0;for(let m=t.length-1;m>=0;m--)t[m].watcher?b++:u++;for(let m=t.length-1;m>=0&&(u>h||b>w);m--){let M=t[m];M.companion||(M.watcher&&b>w?(t.splice(m,1),b--):!M.watcher&&u>h&&(t.splice(m,1),u--))}for(let m of t){if(m.companion)continue;let M=Math.abs(P.frame(m.x,m.y,y,m).lateral),L=m.watcher?M>=r&&M<=r+ee:M<=r,s=m.x-e.x,k=m.y-e.y;if(L&&s*s+k*k<=d*d)continue;let C=m.watcher?P.sample(N,d,e.x,e.y,r,r+ee):P.sample(N,d,e.x,e.y,0,r);m.x=C.x,m.y=C.y,m.pathAt=-1}for(;u<h;){let m=P.sample(N,d,e.x,e.y,0,r);Ae(5e5+z++,m.x,m.y,!1),u++}for(;b<w;){let m=P.sample(N,d,e.x,e.y,r,r+ee);Ae(5e5+z++,m.x,m.y,!0),b++}let A=[...t.filter(m=>!m.watcher),...t.filter(m=>m.watcher)];t.length=0,t.push(...A)}function Ae(a,h,w,u=!1){let b=X(a),A=b()<o.children,m=A?Ft(Be.min+b()*(Be.max-Be.min)):Ot(b),M=o.paceHigh-o.paceLow,L=o.paceLow+b()*M,s=A?Gt(m,L/1.34):L,k=b()<o.standing||u,C=l(Ze(b,e.axis,o.stream,o.against),b),j={x:h,y:w,vx:k?0:Math.cos(C)*s,vy:k?0:Math.sin(C)*s,gx:k?0:Math.cos(C),gy:k?0:Math.sin(C),stature:m,head:qt(m),headR:_t(m)/2,radius:Oe(m)*o.spacing,preferred:s,phase:b()*Math.PI*2,group:-1,slotRight:0,slotBack:0,child:A,standing:k,watcher:u,companion:!1,besideRight:0,besideAhead:0,quarry:!1,running:!1,pathAt:-1,junction:-1};return t.push(j),j}function he(a){v++;let h=a.vx-e.vx,w=a.vy-e.vy,u=mt(N,h,w),b=d*.985;if(T){let L=a.watcher?P.entry(N,u,b,e.x,e.y,r,r+ee):P.entry(N,u,b,e.x,e.y,0,r);a.x=L.x,a.y=L.y,a.pathAt=-1;let s=l(Ze(N,e.axis,o.stream,o.against),N);a.standing=a.watcher||a.group===-1&&N()<o.standing,a.gx=a.standing?0:Math.cos(s),a.gy=a.standing?0:Math.sin(s);let k=P.frame(a.x,a.y,y,a);a.vx=(a.gx*k.cos-a.gy*k.sin)*a.preferred,a.vy=(a.gx*k.sin+a.gy*k.cos)*a.preferred;return}let A=e.x+Math.cos(u)*b,m=e.y+Math.sin(u)*b;for(let L=0;(Math.abs(m)>r||W.blocked(A,m,.4))&&L<12;L++){let s=mt(N,h,w);A=e.x+Math.cos(s)*b,m=e.y+Math.sin(s)*b}a.x=A,a.y=Math.max(-r,Math.min(r,m));let M=l(Ze(N,e.axis,o.stream,o.against),N);a.standing=a.group===-1&&N()<o.standing,a.gx=a.standing?0:Math.cos(M),a.gy=a.standing?0:Math.sin(M),a.vx=a.gx*a.preferred,a.vy=a.gy*a.preferred}function Se(){i=[],K=0;for(let A of t)A.group=-1,A.slotRight=0,A.slotBack=0;let a=t.length;for(;a>0&&t[a-1].watcher;)a--;let h=Math.round(a*o.grouping),w=Math.round(o.team),u=0,b=0;for(;u<h&&b<a;){let A=$(),m=w>=2?w:A<.58?2:A<.84?3:A<.95?4:5;if(b+m>a)break;let M=t[b],L=Math.atan2(M.gy,M.gx),s={hx:Math.cos(L),hy:Math.sin(L),speed:M.preferred,size:m,standing:$()<o.standing},k=K++;i.push(s);let C=Math.min(4,Math.ceil(Math.sqrt(m)));for(let j=0;j<m;j++){let U=t[b+j];U.group=k,w>=2?(U.slotRight=j%C*.8,U.slotBack=-Math.floor(j/C)*1.05):(U.slotRight=(j-(m-1)/2)*.75,U.slotBack=m>=4?-.35*(1-Math.abs(j-(m-1)/2)/((m-1)/2)):0),U.standing=s.standing,s.speed=Math.min(s.speed,U.preferred),j>0&&(U.x=M.x+s.hx*U.slotBack-s.hy*U.slotRight,U.y=M.y+s.hy*U.slotBack+s.hx*U.slotRight)}u+=m,b+=m}}function ve(){ie.clear(),x=0;for(let a=0;a<t.length;a++){let h=t[a],w=h.x-e.x,u=h.y-e.y;if(w*w+u*u>c*c)continue;x++;let b=te(Math.floor(h.x/ke),Math.floor(h.y/ke)),A=ie.get(b);A?A.push(a):ie.set(b,[a])}}let y={lateral:0,cos:1,sin:0},R={lateral:0,cos:1,sin:0};function H(a,h,w){if(we(a,h),!a.companion){if(!P.straight){let{cos:u,sin:b}=w,A=h.x;h.x=A*u-h.y*b,h.y=A*b+h.y*u}if(!P.flat&&o.effort>0){let u=Math.sqrt(h.x*h.x+h.y*h.y);if(u>1e-6){let b=tt(P.groundSlope(a.x)*h.x/u,o.effort);h.x*=b,h.y*=b}}}}function l(a,h){if(!W.active)return a;let w=Math.PI/2;return Math.round(a/w)*w+(h()-.5)*.12}let g=.3;function G(a,h){Z(a,h);let w=W.junction(a.x,a.y);if(w<0||w===a.junction||(a.junction=w,N()>=g))return;let u=N()<.5?1:-1;if(a.group>=0){if(Pe(h)!==0)return;let A=i[a.group],m=A.hx;A.hx=-A.hy*u,A.hy=m*u;return}let b=a.gx;a.gx=-a.gy*u,a.gy=b*u}function Z(a,h){let w=W.runs(a.x,a.y);if(w===3||w===0)return;let u=a.group>=0?i[a.group]:null;if(u&&Pe(h)!==0)return;let b=u?u.hx:a.gx,A=u?u.hy:a.gy;if(Math.abs(w===1?b:A)>.7)return;let M=w===1?b>=0?1:-1:0,L=w===2?A>=0?1:-1:0;u?(u.hx=M,u.hy=L):(a.gx=M,a.gy=L)}let D=!0,O=0,J=!0,re=14,ne=3;function ye(a,h){let w=a.x-e.x,u=a.y-e.y,b=Math.sqrt(w*w+u*u);if(O>0){if(O-=h,a.preferred=0,O<=0){O=0,D=!0,re=9+N()*12;let M=Math.atan2(u,w),L=Math.PI/2,s=W.active?Math.round(M/L)*L:M;a.gx=Math.cos(s),a.gy=Math.sin(s),a.preferred=Math.max(.6,o.walk)*o.flee*1.3,J=!1}return}if(!J&&b>bo&&(J=!0),J&&b<po){O=xt[0]+N()*(xt[1]-xt[0]),a.preferred=0;return}D&&b>re?(D=!1,ne=N()<fo?0:2+N()*2.5):!D&&b<ne&&(D=!0,re=9+N()*12);let A=Math.atan2(a.gy,a.gx);if(W.active){let M=W.junction(a.x,a.y);if(M>=0&&M!==a.junction){a.junction=M;let k=Math.PI/2,C=Math.round(A/k)*k,j=C,U=-1/0;for(let ge of[0,k,-k]){let xe=C+ge,Y=(Math.cos(xe)*w+Math.sin(xe)*u)/Math.max(1,b);if(Y<-.3)continue;let le=Y*.5+N()+(ge===0?0:.7);le>U&&(U=le,j=xe)}A=j}a.gx=Math.cos(A),a.gy=Math.sin(A);let L=W.runs(a.x,a.y);L===1&&Math.abs(a.gx)<.7?(a.gx=a.gx>=0?1:-1,a.gy=0):L===2&&Math.abs(a.gy)<.7&&(a.gx=0,a.gy=a.gy>=0?1:-1);let s=Math.max(.6,o.walk);a.preferred=D?s*o.flee:s*.2;return}if(A+=(N()-.5)*(D?.9:3)*Math.sqrt(h)*2,!Number.isFinite(r)&&b>.001){let L=Math.atan2(u,w)-A;for(;L>Math.PI;)L-=Math.PI*2;for(;L<-Math.PI;)L+=Math.PI*2;D&&(A+=L*Math.min(1,4/Math.max(1,b))*h*2)}else{let M=A;for(;M>Math.PI;)M-=Math.PI*2;for(;M<-Math.PI;)M+=Math.PI*2;A-=M*h*2}a.gx=Math.cos(A),a.gy=Math.sin(A);let m=Math.max(.6,o.walk);a.preferred=D?m*o.flee:m*.2}function we(a,h){if(a.companion){h.x=e.vx,h.y=e.vy;return}if(a.group>=0){let w=i[a.group];if(w.standing){h.x=0,h.y=0;return}h.x=w.hx*w.speed,h.y=w.hy*w.speed;return}if(a.standing){h.x=0,h.y=0;return}h.x=a.gx*a.preferred,h.y=a.gy*a.preferred}let oe={x:0,y:0};function ae(a){f+=a,ve();let h=1.9*o.spacing*o.spacing,w=c*c,u=rn*rn,b=d*d,A=kt*kt;S=1/0,I=0,_=0;let m=sn*sn,M=1/0;for(let L=0;L<t.length;L++){let s=t[L];s.quarry&&ye(s,a);let k=P.frame(s.x,s.y,y,s);H(s,oe,k),F.x=(oe.x-s.vx)*hn,F.y=(oe.y-s.vy)*hn;let C=s.x-e.x,j=s.y-e.y,U=C*C+j*j;U<M&&(M=U);let ge=U<=w;if(ge){if(s.companion){let ce=Math.cos(e.course),ue=Math.sin(e.course),de=e.x+ce*s.besideAhead-ue*s.besideRight,be=e.y+ue*s.besideAhead+ce*s.besideRight;F.x+=(de-s.x)*an,F.y+=(be-s.y)*an}if(s.group>=0){let ce=i[s.group],ue=t[L-Pe(L)];if(s!==ue){let{cos:de,sin:be}=P.frame(ue.x,ue.y,R,ue),Ie=ce.hx*de-ce.hy*be,He=ce.hx*be+ce.hy*de,$e=ue.x+Ie*s.slotBack-He*s.slotRight,Ke=ue.y+He*s.slotBack+Ie*s.slotRight;F.x+=($e-s.x)*1.6,F.y+=(Ke-s.y)*1.6}}let Y=Math.floor(s.x/ke),le=Math.floor(s.y/ke);for(let ce=-1;ce<=1;ce++)for(let ue=-1;ue<=1;ue++){let de=ie.get(te(Y+ce,le+ue));if(de)for(let be=0;be<de.length;be++){let Ie=de[be];if(Ie===L)continue;let He=t[Ie],$e=He.x-s.x,Ke=He.y-s.y,St=$e*$e+Ke*Ke;if(St>u)continue;let at=Math.sqrt(St)-s.radius-He.radius;at<S&&(S=at),at<0&&Ie>L&&(I++,U<m&&_++),qe(s,He,h,F)}}qe(s,e,h*1.15,F)}if(W.active&&(W.push(s.x,s.y,F),!s.standing&&!s.companion&&!s.quarry&&!s.watcher&&G(s,L)),T){let Y=k.lateral,{cos:le,sin:ce}=k,ue=Math.sign(Y),de=0;if(s.watcher){let be=r+ot-Math.abs(Y);be>0&&(de+=be*7);let Ie=Math.abs(Y)-(r+ee)+ot;Ie>0&&(de-=Ie*7)}else{let be=Math.abs(Y)-r+ot;be>0&&(de-=be*7)}F.x+=-ce*ue*de,F.y+=le*ue*de}else{let Y=Math.abs(s.y)-r+ot;Y>0&&(F.y-=Math.sign(s.y)*Y*7)}if(o.keep!==0&&!s.standing&&!s.companion&&Number.isFinite(r)){let Y=Math.sqrt(oe.x*oe.x+oe.y*oe.y);if(Y>1e-6){let{cos:le,sin:ce}=k,ue=(oe.x*le+oe.y*ce)/Y,de=et(k.lateral,r,ue,o.keep);F.x+=-ce*de,F.y+=le*de}}let xe=F.x*F.x+F.y*F.y;if(xe>A){let Y=kt/Math.sqrt(xe);F.x*=Y,F.y*=Y}if(s.vx+=F.x*a,s.vy+=F.y*a,s.x+=s.vx*a,s.y+=s.vy*a,ge){let Y=Math.sqrt(s.vx*s.vx+s.vy*s.vy),le=ze(s.stature);!s.running&&Y>le*1.04?s.running=!0:s.running&&Y<le*.9&&(s.running=!1);let ce=s.running?je(s.stature,Y):De(s.stature,Y,s.preferred);s.phase+=ce*a*Math.PI*2}if(!s.companion&&!s.quarry){let Y=s.x-e.x,le=s.y-e.y;Y*Y+le*le>b&&he(s)}}E=Math.sqrt(M)}function Pe(a){let h=t[a].group,w=0;for(;w<a&&t[a-w-1].group===h;)w++;return w}Ee(),Se(),Me(),ve();function Ce(){let a=t.find(h=>h.quarry);return a?Math.hypot(a.x-e.x,a.y-e.y):0}let pe=[];return{get people(){return t},get groups(){return i},get clock(){return f},get world(){return d},get companions(){return t.filter(a=>a.companion)},get halfWidth(){return r},get stalls(){return W},get caught(){return O>0},get quarry(){return t.find(a=>a.quarry)??null},get path(){return P},step:ae,neighbours(a,h,w){pe.length=0;let u=Math.ceil(w/ke),b=w*w,A=Math.floor(a/ke),m=Math.floor(h/ke);for(let M=-u;M<=u;M++)for(let L=-u;L<=u;L++){let s=ie.get(te(A+M,m+L));if(s)for(let k of s){let C=t[k],j=C.x-a,U=C.y-h;j*j+U*U<=b&&pe.push(C)}}return pe},resettle(a){let h=o;o=a,c=wt(o);for(let w of t)w.radius=Oe(w.stature)*o.spacing;(h.grouping!==o.grouping||h.team!==o.team)&&(Se(),Me())},restock(a){o=a,c=wt(o),N=Le(Re(o.seed,2)),$=Le(Re(o.seed,3)),Ee(),Se(),Me()},stats(){let a=0,h=0,w=0,u=0;for(let b of t)b.child&&a++,b.group>=0&&h++,b.companion&&w++,b.watcher&&u++;return{people:t.length,avoiding:x,world:d,budgeted:p,halfWidth:r,edge:Math.exp(-d/Math.max(.5,o.fade)),children:a,grouped:h,companions:w,watchers:u,teams:o.team>=2?i.length:0,quarry:Ce(),minRadius:P.minRadius,steepestClimb:P.steepestClimb,closest:Number.isFinite(S)?S:0,overlaps:I,overlapsSeen:_,nearest:Number.isFinite(E)?E:0,clock:f,reentries:v}}}}var Ue=1/120,ln=4,yo=600,wo=2;function xo(n){let e=n.getContext("2d");if(!e)throw new Error("Crowd: no 2d context");return e}function cn(n,e){let t=xo(n),i=window.matchMedia("(prefers-reduced-motion: reduce)"),o=e,c=0,d=0,p=1,r=bt(o,o.seed),f=Mt(o,r),x=Kt(),S=0,I=!1,_=0,v=0,E=0,P=0,Q=0,W=0,ee=0,T=!0,z=()=>!i.matches&&o.playback>0;function N(){let V=n.clientWidth||window.innerWidth,B=n.clientHeight||window.innerHeight,q=Math.min(window.devicePixelRatio||1,2);V===c&&B===d&&q===p||(c=V,d=B,p=q,n.width=Math.round(c*p),n.height=Math.round(d*p))}function $(){let{z:V,sway:B}=r.eye(),q=r.course-Math.PI/2;return Tt(r.x+Math.cos(q)*B,r.y+Math.sin(q)*B,V+f.path.ground(r.x),r.yaw,r.pitch,o.fov,o.fade,c,d)}function X(){t.setTransform(p,0,0,p,0,0);let V=performance.now(),B=Bt(t,{people:f.people,camera:$(),ground:f.path.ground,settings:o,width:c,height:d,scratch:x});ee+=(performance.now()-V-ee)*.1,P=B.drawn,Q=B.fills,W=B.largest}function K(V){r.step(V,f),f.step(V)}function F(V){let B=Math.max(0,Math.min(yo,V)),q=Math.round(B/Ue);for(let se=0;se<q;se++)K(Ue)}function ie(V){S=requestAnimationFrame(ie);let B=_===0?0:Math.min(.25,(V-_)/1e3);if(_=V,B>0&&(E+=(1/B-E)*.1),z()){v+=B*o.playback;let q=0;for(;v>=Ue&&q<ln;)K(Ue),v-=Ue,q++;q===ln&&(v=0),X(),T=!1;return}if(T){T=!1,X();return}cancelAnimationFrame(S),S=0,I=!1}function te(){T=!0,!I&&(I=!0,_=0,S=requestAnimationFrame(ie))}let me=()=>{N(),te()};window.addEventListener("resize",me),i.addEventListener("change",te);function fe(){S&&cancelAnimationFrame(S),S=0,I=!1,window.removeEventListener("resize",me),i.removeEventListener("change",te)}return{start(){N(),z()||F(wo),X(),te()},stop:fe,setPaused(V){if(!V){te();return}S&&cancelAnimationFrame(S),S=0,I=!1},settle(V){F(V),T=!0,te()},setSettings(V){let B=o;o=V,Rt(B,o)?(r=bt(o,o.seed),f=Mt(o,r)):(r.resettle(o),f.resettle(o),Lt(B,o)&&f.restock(o)),te()},stats(){return{...f.stats(),me:r.stats(),drawn:P,fills:Q,largest:W,drawMs:ee,budget:Fe,fps:E,running:I}},destroy:fe}}function un(n){let e=it(It,n);if(!e)throw new Error(`crowd: unreadable scene ${JSON.stringify(n.slice(0,24))}`);return Et(e)}function pa(n,e,t={}){let i=cn(n,un(e));return i.start(),{setScene:o=>i.setSettings(un(o)),setPaused:i.setPaused,stats:i.stats,destroy:i.destroy}}export{pa as mount};

diff --git a/src/experiments/crowd/settings.ts b/src/experiments/crowd/settings.ts
@@ -650,6 +650,53 @@ export const DEFAULT_SETTINGS: Settings = {
  */
 export const PRESETS: { label: string; hint: string; settings: Settings }[] = [
   {
+    label: "catch me",
+    hint: "The market, with stalls nobody can see, and somebody in red I am trying to keep up with — they run when I get close, wait when I fall behind, and turn down other aisles, so I cannot take the straight line to them. The red head looks like the subject for a moment. It is not: the subject is whoever is doing the chasing.",
+    settings: {
+      density: 48,
+      stream: 0.22,
+      against: 0.5,
+      grouping: 0.7,
+      children: 0.22,
+      standing: 0.22,
+      paceLow: 0.85,
+      paceHigh: 1.65,
+      spacing: 1.05,
+      walk: 1.45,
+      pausing: 0,
+      height: 1.72,
+      pitch: -4,
+      companions: 0,
+      looking: 1,
+      bob: 1,
+      fov: 62,
+      fade: 30,
+      reach: 90,
+      width: 250,
+      lining: 0,
+      watchers: 0,
+      bend: 0,
+      meander: 300,
+      team: 0,
+      climb: 0,
+      hills: 400,
+      effort: 0,
+      keep: 0,
+      line: 0,
+      hold: 0,
+      chase: 1,
+      flee: 1.3,
+      loop: 0,
+      corners: 0,
+      stalls: 0.5,
+      aisle: 3,
+      hue: 0,
+      tint: 0,
+      playback: 1,
+      seed: 64021,
+    },
+  },
+  {
     label: "market",
     hint: "A busy square with no grain to it, walked slowly, stopping to look. The scene the piece was asked for.",
     settings: {
@@ -1211,53 +1258,6 @@ export const PRESETS: { label: string; hint: string; settings: Settings }[] = [
       tint: 0,
       playback: 1,
       seed: 52291,
-    },
-  },
-  {
-    label: "catch me",
-    hint: "The market, with stalls nobody can see, and somebody in red I am trying to keep up with — they run when I get close, wait when I fall behind, and turn down other aisles, so I cannot take the straight line to them. The red head looks like the subject for a moment. It is not: the subject is whoever is doing the chasing.",
-    settings: {
-      density: 48,
-      stream: 0.22,
-      against: 0.5,
-      grouping: 0.7,
-      children: 0.22,
-      standing: 0.22,
-      paceLow: 0.85,
-      paceHigh: 1.65,
-      spacing: 1.05,
-      walk: 1.45,
-      pausing: 0,
-      height: 1.72,
-      pitch: -4,
-      companions: 0,
-      looking: 1,
-      bob: 1,
-      fov: 62,
-      fade: 30,
-      reach: 90,
-      width: 250,
-      lining: 0,
-      watchers: 0,
-      bend: 0,
-      meander: 300,
-      team: 0,
-      climb: 0,
-      hills: 400,
-      effort: 0,
-      keep: 0,
-      line: 0,
-      hold: 0,
-      chase: 1,
-      flee: 1.3,
-      loop: 0,
-      corners: 0,
-      stalls: 0.5,
-      aisle: 3,
-      hue: 0,
-      tint: 0,
-      playback: 1,
-      seed: 64021,
     },
   },
   {

diff --git a/tests/unit/crowd/stroll.test.ts b/tests/unit/crowd/stroll.test.ts
@@ -4,6 +4,13 @@ import { createThrong } from "@/experiments/crowd/throng"
 import { normalizeSettings, PRESETS, type Settings } from "@/experiments/crowd/settings"
 
 /**
+ * The market, by name. These checks were written against it when it was the
+ * primary, and a primary moves — "catch me" took the place on 2026-09-26 —
+ * so they say which scene they mean rather than which position.
+ */
+const MARKET = PRESETS.find((preset) => preset.label === "market")!
+
+/**
  * The person carrying the camera, and specifically what their head does.
  *
  * **Every number here comes from a complaint.** The first version of the neck
@@ -22,7 +29,7 @@ const DEG = 180 / Math.PI
 const wrap = (a: number) => Math.atan2(Math.sin(a), Math.cos(a))
 
 function watch(patch: Partial<Settings>, seconds: number) {
-  const settings = normalizeSettings({ ...PRESETS[0]!.settings, ...patch })
+  const settings = normalizeSettings({ ...MARKET.settings, ...patch })
   const me = createStroll(settings, settings.seed)
   const crowd = createThrong(settings, me)
 
@@ -214,7 +221,7 @@ describe("the body: sidestepping, and not shaking", () => {
 
 describe("walking with somebody", () => {
   function withMates(count: number, seconds: number) {
-    const settings = normalizeSettings({ ...PRESETS[0]!.settings, companions: count })
+    const settings = normalizeSettings({ ...MARKET.settings, companions: count })
     const me = createStroll(settings, settings.seed)
     const crowd = createThrong(settings, me)
     const gaps: number[] = []
@@ -267,7 +274,7 @@ describe("walking with somebody", () => {
 
 describe("the gaze goes up and down, not only side to side", () => {
   function gaze(patch: Record<string, number>, seconds: number) {
-    const settings = normalizeSettings({ ...PRESETS[0]!.settings, ...patch })
+    const settings = normalizeSettings({ ...MARKET.settings, ...patch })
     const me = createStroll(settings, settings.seed)
     const crowd = createThrong(settings, me)
     const pitches: number[] = []

diff --git a/tests/unit/crowd/throng.test.ts b/tests/unit/crowd/throng.test.ts
@@ -5,6 +5,13 @@ import { createThrong, DETAIL, detailFor, MAX_PEOPLE } from "@/experiments/crowd
 import { BOUNDS, normalizeSettings, PRESETS, type Settings } from "@/experiments/crowd/settings"
 
 /**
+ * The market, by name. These checks were written against it when it was the
+ * primary, and a primary moves — "catch me" took the place on 2026-09-26 —
+ * so they say which scene they mean rather than which position.
+ */
+const MARKET = PRESETS.find((preset) => preset.label === "market")!
+
+/**
  * The crowd, over long enough for the things it claims to be about to happen.
  *
  * **These are slow and are meant to be.** Every claim here is about a crowd that
@@ -30,7 +37,7 @@ const STEP = 1 / 120
 const PATIENT = 180_000
 
 function walk(patch: Partial<Settings>, seconds: number) {
-  const settings = normalizeSettings({ ...PRESETS[0]!.settings, ...patch })
+  const settings = normalizeSettings({ ...MARKET.settings, ...patch })
   const me = createStroll(settings, settings.seed)
   const crowd = createThrong(settings, me)
   const run = (forSeconds: number) => {

diff --git a/src/experiments/crowd/seed.md b/src/experiments/crowd/seed.md
@@ -381,3 +381,8 @@ a hillside) that end at a clearing, which the trail does not yet have.
 Built as a two-way gaze in a chase: short spells on the way ahead and on them,
 nothing else, on a quicker neck. Found and fixed on the way: a catch that
 re-caught them the next step, 55 times in four minutes on one seed.
+
+## 2026-09-26 — catch me first, and to the wall
+
+> promote "catch me" to first preset. push today's presets to showcase: catch
+> me, teams, runner, street run. open PR and merge when ready
